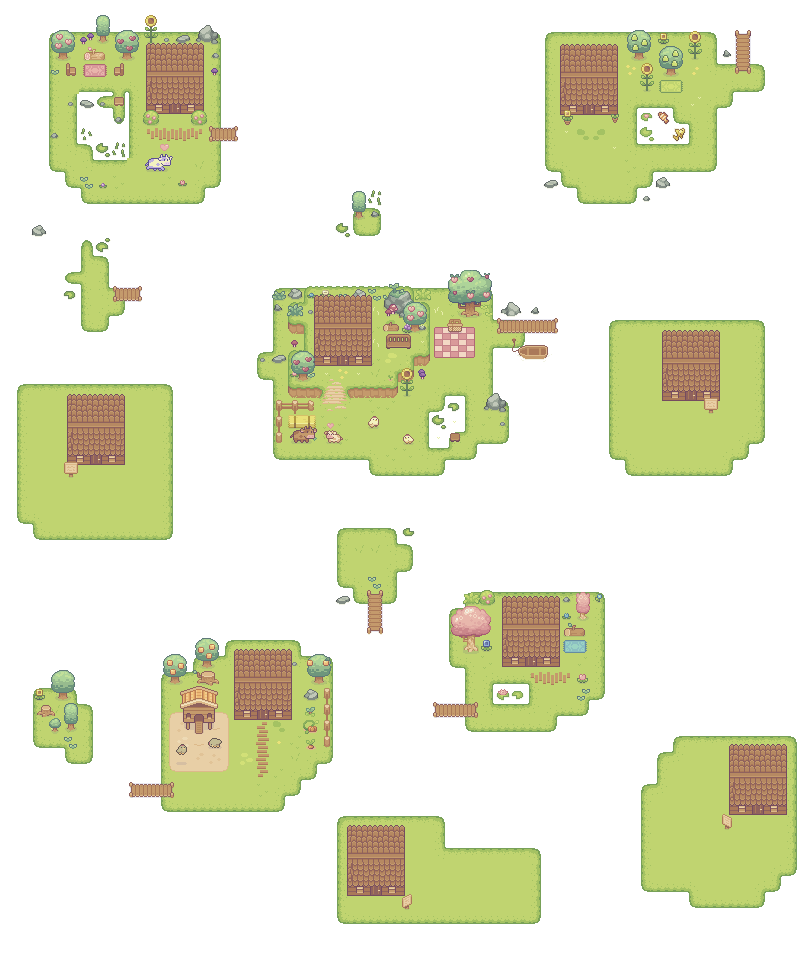
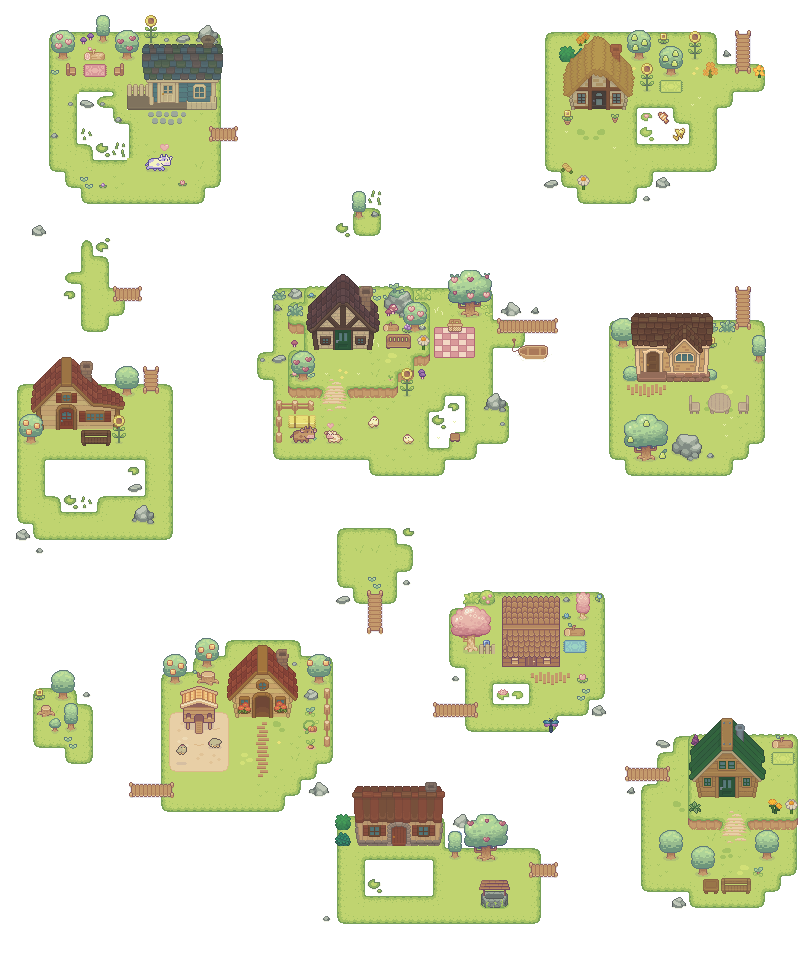
update houses + add new residents to veopian isles

diff --git a/src/lib/config/clickableAreas.ts b/src/lib/config/clickableAreas.ts
@@ -18,7 +18,7 @@ export const clickableAreas: ClickableArea[] = [
 		bio: 'frontend x design engineer | maker of veopia and other things',
 		location: {
 			plotNumber: 1,
-			town: 'veopia-central'
+			town: 'veopian-isles'
 		}
 	},
 	{
@@ -31,7 +31,7 @@ export const clickableAreas: ClickableArea[] = [
 		bio: "community @ vercel ⏶ existing loudly 💜 | sharing thoughts in pixels since '08",
 		location: {
 			plotNumber: 2,
-			town: 'veopia-central'
+			town: 'veopian-isles'
 		}
 	},
 	{
@@ -44,35 +44,35 @@ export const clickableAreas: ClickableArea[] = [
 		bio: '🧠 a bucket of poetry, design, code, & cricket.',
 		location: {
 			plotNumber: 3,
-			town: 'veopia-central'
+			town: 'veopian-isles'
 		}
 	},
-	// {
-	// 	x: 38,
-	// 	y: 17,
-	// 	width: 10,
-	// 	height: 13,
-	// 	url: 'https://mimireyburn.com',
-	// 	name: 'mimi reyburn',
-	// 	bio: 'xyz',
-	// 	location: {
-	// 		plotNumber: 4,
-	// 		town: 'veopia-central'
-	// 	}
-	// },
-	// {
-	// 	x: 1,
-	// 	y: 22,
-	// 	width: 10,
-	// 	height: 12,
-	// 	url: 'https://darylcecile.net/',
-	// 	name: 'daryl',
-	// 	bio: 'software engineer @ github',
-	// 	location: {
-	// 		plotNumber: 5,
-	// 		town: 'veopia-central'
-	// 	}
-	// },
+	{
+		x: 38,
+		y: 20,
+		width: 10,
+		height: 10,
+		url: 'https://darylcecile.net/',
+		name: 'daryl',
+		bio: 'I make things on the internet: apps, tools, and the occasional questionable decision. Equal parts curious and exhausted, always tinkering, learning, and chasing the next “oh that’s cool” moment.',
+		location: {
+			plotNumber: 4,
+			town: 'veopian-isles'
+		}
+	},
+	{
+		x: 1,
+		y: 22,
+		width: 10,
+		height: 12,
+		url: 'https://www.kenthropic.com',
+		name: 'ken kunz',
+		bio: '👨💻 software for humans ⭐ svelte ambassador 🎭 high-concept mischief',
+		location: {
+			plotNumber: 5,
+			town: 'veopian-isles'
+		}
+	},
 	{
 		x: 28,
 		y: 37,
@@ -83,7 +83,7 @@ export const clickableAreas: ClickableArea[] = [
 		bio: 'my hair is a css gradient',
 		location: {
 			plotNumber: 6,
-			town: 'veopia-central'
+			town: 'veopian-isles'
 		}
 	},
 	{
@@ -93,10 +93,10 @@ export const clickableAreas: ClickableArea[] = [
 		height: 11,
 		url: 'https://jda5.github.io/blog/',
 		name: 'jacob strauss',
-		bio: 'chaselabs | gumbo | better every loop',
+		bio: 'ChaseLabs | Gumbo | Better Every Loop',
 		location: {
 			plotNumber: 7,
-			town: 'veopia-central'
+				town: 'veopian-isles'
 		}
 	}
 	// {
@@ -104,12 +104,12 @@ export const clickableAreas: ClickableArea[] = [
 	// 	y: 45,
 	// 	width: 10,
 	// 	height: 12,
-	// 	url: 'https://carlyvalancy.com',
-	// 	name: 'carly valancy',
-	// 	bio: 'xyz',
+	// 	url: '',
+	// 	name: '',
+	// 	bio: '',
 	// 	location: {
 	// 		plotNumber: 8,
-	// 		town: 'veopia-central'
+	// 		town: 'veopian-isles'
 	// 	}
 	// }
 	// {
@@ -117,12 +117,12 @@ export const clickableAreas: ClickableArea[] = [
 	// 	y: 17,
 	// 	width: 16,
 	// 	height: 12,
-	// 	url: 'https://website.com',
-	// 	name: 'name',
-	// 	bio: 'bio',
+	// 	url: '',
+	// 	name: '',
+	// 	bio: '',
 	// 	location: {
 	// 		plotNumber: 9,
-	// 		town: 'veopia-central'
+	// 		town: 'veopian-isles'
 	// 	}
 	// }
 ];

diff --git a/src/routes/+page.svelte b/src/routes/+page.svelte
@@ -1,5 +1,5 @@
 <script lang="ts">
-	import VeopiaCentral from '$lib/assets/veopia-central-2.png';
+	import VeopianIsles from '$lib/assets/veopian-isles.png';
 	import { dev } from '$app/environment';
 	import { clickableAreas } from '$lib/config/clickableAreas';
 	import { tileToPercent, styleToString } from '$lib/utils/tileCoords';
@@ -25,7 +25,7 @@
 		</div>
 
 		<img
-			src={VeopiaCentral}
+			src={VeopianIsles}
 			alt="Veopia - A digital neighbourhood"
 			class="h-full w-full object-contain" />
 

diff --git a/src/lib/utils/tileCoords.ts b/src/lib/utils/tileCoords.ts
@@ -5,7 +5,7 @@ export const MAP_WIDTH_TILES = 50;
 export const MAP_HEIGHT_TILES = 60;
 export const TILE_SIZE_PX = 16;
 
-export type Town = 'veopia-central';
+export type Town = 'veopia-central' | 'veopian-isles';
 
 export interface Location {
 	plotNumber: number;
